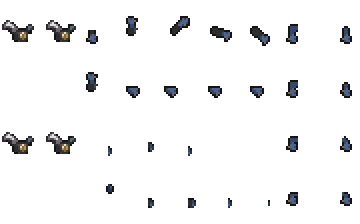
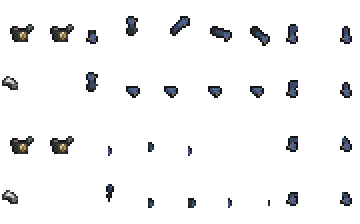
Finishing Touches

diff --git a/CalPlayer/CalamityPlayerMiscEffects.cs b/CalPlayer/CalamityPlayerMiscEffects.cs
@@ -232,6 +232,8 @@ namespace CalamityMod.CalPlayer
                     HasReducedDashFirstFrame = false;
             }
 
+            int dir = MathF.Sign(Player.velocity.X);
+
             if (lAmbergris)
             {
                 if (Player.miscCounter % 3 == 2 && Player.dashDelay > 0) // Reduced dash cooldown by 33%
@@ -252,22 +254,22 @@ namespace CalamityMod.CalPlayer
                     for (int i = 0; i < numberOfDusts; i++)
                     {
                         float rot = MathHelper.ToRadians(i * rotFactor);
-                        Vector2 offset = new Vector2(Player.velocity.X * Player.direction * 0.7f + 6f, 0).RotatedBy(rot * Main.rand.NextFloat(4f, 5f));
+                        Vector2 offset = new Vector2(Player.velocity.X * dir * 0.7f + 6f, 0).RotatedBy(rot * Main.rand.NextFloat(4f, 5f));
                         Vector2 velOffset = Vector2.Zero;
                         Dust dust = Dust.NewDustPerfect(Player.Center + offset + Player.velocity, Main.rand.NextBool() ? 160 : 307, new Vector2(velOffset.X, velOffset.Y));
                         dust.noGravity = true;
                         dust.velocity = velOffset;
                         dust.alpha = 100;
-                        dust.scale = (Player.velocity.X * Player.direction * 0.08f);
+                        dust.scale = (Player.velocity.X * dir * 0.08f);
                     }
                     if (Player.miscCounter % 4 == 0)
                     {
-                        float sparkscale = (Player.velocity.X * Player.direction * 0.07f);
-                        Vector2 SparkVelocity1 = Player.velocity.RotatedBy(Player.direction * 2, default) * 0.1f - Player.velocity / 2f;
-                        LineParticle spark = new LineParticle(Player.Center + Player.velocity.RotatedBy(2f * Player.direction) * 1.5f, SparkVelocity1, false, Main.rand.Next(11, 13), sparkscale, Main.rand.NextBool() ? Color.DarkTurquoise : Color.DodgerBlue);
+                        float sparkscale = (Player.velocity.X * dir * 0.07f);
+                        Vector2 SparkVelocity1 = Player.velocity.RotatedBy(dir * 2, default) * 0.1f - Player.velocity / 2f;
+                        LineParticle spark = new LineParticle(Player.Center + Player.velocity.RotatedBy(2f * dir) * 1.5f, SparkVelocity1, false, Main.rand.Next(11, 13), sparkscale, Main.rand.NextBool() ? Color.DarkTurquoise : Color.DodgerBlue);
                         GeneralParticleHandler.SpawnParticle(spark);
-                        Vector2 SparkVelocity2 = Player.velocity.RotatedBy(Player.direction * -2, default) * 0.1f - Player.velocity / 2f;
-                        LineParticle spark2 = new LineParticle(Player.Center + Player.velocity.RotatedBy(-2f * Player.direction) * 1.5f, SparkVelocity2, false, Main.rand.Next(11, 13), sparkscale, Main.rand.NextBool() ? Color.DarkTurquoise : Color.DodgerBlue);
+                        Vector2 SparkVelocity2 = Player.velocity.RotatedBy(dir * -2, default) * 0.1f - Player.velocity / 2f;
+                        LineParticle spark2 = new LineParticle(Player.Center + Player.velocity.RotatedBy(-2f * dir) * 1.5f, SparkVelocity2, false, Main.rand.Next(11, 13), sparkscale, Main.rand.NextBool() ? Color.DarkTurquoise : Color.DodgerBlue);
                         GeneralParticleHandler.SpawnParticle(spark2);
                     }
                     if (Player.miscCounter % 4 == 0 && Player.velocity != Vector2.Zero) //every other frame spawn the hitbox
@@ -298,20 +300,20 @@ namespace CalamityMod.CalPlayer
                     for (int i = 0; i < numberOfDusts; i++)
                     {
                         float rot = MathHelper.ToRadians(i * rotFactor);
-                        Vector2 offset = new Vector2(MathF.Min(Player.velocity.X * Player.direction * 0.7f + 8f, 20f), 0).RotatedBy(rot * Main.rand.NextFloat(4f, 5f));
+                        Vector2 offset = new Vector2(MathF.Min(Player.velocity.X * dir * 0.7f + 8f, 20f), 0).RotatedBy(rot * Main.rand.NextFloat(4f, 5f));
                         Vector2 velOffset = Vector2.Zero;
                         Dust dust = Dust.NewDustPerfect(Player.Center + offset + Player.velocity, Main.rand.NextBool() ? 35 : 127, new Vector2(velOffset.X, velOffset.Y));
                         dust.noGravity = true;
                         dust.velocity = velOffset;
                         dust.alpha = 100;
-                        dust.scale = MathF.Min(Player.velocity.X * Player.direction * 0.08f, 1.2f);
+                        dust.scale = MathF.Min(Player.velocity.X * dir * 0.08f, 1.2f);
                     }
-                    float sparkscale = MathF.Min(Player.velocity.X * Player.direction * 0.08f, 1.2f);
-                    Vector2 SparkVelocity1 = Player.velocity.RotatedBy(Player.direction * -3, default) * 0.1f - Player.velocity / 2f;
-                    SparkParticle spark = new SparkParticle(Player.Center + Player.velocity.RotatedBy(2f * Player.direction) * 1.5f, SparkVelocity1, false, Main.rand.Next(11, 13), sparkscale, Main.rand.NextBool() ? Color.DarkOrange : Color.OrangeRed);
+                    float sparkscale = MathF.Min(Player.velocity.X * dir * 0.08f, 1.2f);
+                    Vector2 SparkVelocity1 = Player.velocity.RotatedBy(dir * -3, default) * 0.1f - Player.velocity / 2f;
+                    SparkParticle spark = new SparkParticle(Player.Center + Player.velocity.RotatedBy(2f * dir) * 1.5f, SparkVelocity1, false, Main.rand.Next(11, 13), sparkscale, Main.rand.NextBool() ? Color.DarkOrange : Color.OrangeRed);
                     GeneralParticleHandler.SpawnParticle(spark);
-                    Vector2 SparkVelocity2 = Player.velocity.RotatedBy(Player.direction * 3, default) * 0.1f - Player.velocity / 2f;
-                    SparkParticle spark2 = new SparkParticle(Player.Center + Player.velocity.RotatedBy(-2f * Player.direction) * 1.5f, SparkVelocity2, false, Main.rand.Next(11, 13), sparkscale, Main.rand.NextBool() ? Color.DarkOrange : Color.OrangeRed);
+                    Vector2 SparkVelocity2 = Player.velocity.RotatedBy(dir * 3, default) * 0.1f - Player.velocity / 2f;
+                    SparkParticle spark2 = new SparkParticle(Player.Center + Player.velocity.RotatedBy(-2f * dir) * 1.5f, SparkVelocity2, false, Main.rand.Next(11, 13), sparkscale, Main.rand.NextBool() ? Color.DarkOrange : Color.OrangeRed);
                     GeneralParticleHandler.SpawnParticle(spark2);
 
                     if (Player.miscCounter % 6 == 0 && Player.velocity != Vector2.Zero)
@@ -326,9 +328,6 @@ namespace CalamityMod.CalPlayer
 
             if (XykVisualsBlue || XykVisualsOrange)
             {
-                if (Player.statLife > 30)
-                    Player.statLife = 30;
-
                 bool Orange = XykVisualsOrange;
                 Color effectColor = Orange ? Color.Gold : Color.DodgerBlue;
 
@@ -370,7 +369,7 @@ namespace CalamityMod.CalPlayer
                         IsFirstDashFrame = false;
                     }
                     
-                    float sparkscale1 = MathF.Min(Player.velocity.X * Player.direction * 0.08f, 1.2f);
+                    float sparkscale1 = MathF.Min(Player.velocity.X * dir * 0.08f, 1.2f);
                     Vector2 SparkVelocity1 = -Player.velocity.SafeNormalize(Vector2.UnitX) * 5;
 
                     if (!Orange)
@@ -386,12 +385,12 @@ namespace CalamityMod.CalPlayer
                     }
                     else
                     {
-                        float sparkscale2 = MathF.Min(Player.velocity.X * Player.direction * 0.07f, 1.1f);
-                        Vector2 SparkVelocity2 = Player.velocity.RotatedBy(Player.direction * 2.5f, default) * 0.1f - Player.velocity / 2f;
-                        Particle spark = new LineParticle(Player.Center + (Player.velocity.SafeNormalize(Vector2.UnitX) * 15).RotatedBy(2f * Player.direction) * 1.5f, SparkVelocity2, false, 10, sparkscale2, effectColor);
+                        float sparkscale2 = MathF.Min(Player.velocity.X * dir * 0.07f, 1.1f);
+                        Vector2 SparkVelocity2 = Player.velocity.RotatedBy(dir * 2.5f, default) * 0.1f - Player.velocity / 2f;
+                        Particle spark = new LineParticle(Player.Center + (Player.velocity.SafeNormalize(Vector2.UnitX) * 15).RotatedBy(2f * dir) * 1.5f, SparkVelocity2, false, 10, sparkscale2, effectColor);
                         GeneralParticleHandler.SpawnParticle(spark);
-                        Vector2 SparkVelocity3 = Player.velocity.RotatedBy(Player.direction * -2.5f, default) * 0.1f - Player.velocity / 2f;
-                        Particle spark2 = new LineParticle(Player.Center + (Player.velocity.SafeNormalize(Vector2.UnitX) * 15).RotatedBy(-2f * Player.direction) * 1.5f, SparkVelocity3, false, 10, sparkscale2, effectColor);
+                        Vector2 SparkVelocity3 = Player.velocity.RotatedBy(dir * -2.5f, default) * 0.1f - Player.velocity / 2f;
+                        Particle spark2 = new LineParticle(Player.Center + (Player.velocity.SafeNormalize(Vector2.UnitX) * 15).RotatedBy(-2f * dir) * 1.5f, SparkVelocity3, false, 10, sparkscale2, effectColor);
                         GeneralParticleHandler.SpawnParticle(spark2);
                     }
 

diff --git a/Items/Accessories/Vanity/XyksBlessingOrange.cs b/Items/Accessories/Vanity/XyksBlessingOrange.cs
@@ -20,9 +20,9 @@ namespace CalamityMod.Items.Accessories.Vanity
         {
             if (!Main.dedServ)
             {
-                EquipLoader.AddEquipTexture(Mod, "CalamityMod/Items/Accessories/Vanity/XYK_Head", EquipType.Head, this);
-                EquipLoader.AddEquipTexture(Mod, "CalamityMod/Items/Accessories/Vanity/XYK_Body", EquipType.Body, this);
-                EquipLoader.AddEquipTexture(Mod, "CalamityMod/Items/Accessories/Vanity/XYK_Legs", EquipType.Legs, this);
+                EquipLoader.AddEquipTexture(Mod, "CalamityMod/Items/Accessories/Vanity/Xyk_Head", EquipType.Head, this);
+                EquipLoader.AddEquipTexture(Mod, "CalamityMod/Items/Accessories/Vanity/Xyk_Body2", EquipType.Body, this);
+                EquipLoader.AddEquipTexture(Mod, "CalamityMod/Items/Accessories/Vanity/Xyk_Legs2", EquipType.Legs, this);
             }
         }
 

diff --git a/Items/Accessories/Vanity/XyksBlessingBlue.cs b/Items/Accessories/Vanity/XyksBlessingBlue.cs
@@ -20,9 +20,9 @@ namespace CalamityMod.Items.Accessories.Vanity
         {
             if (!Main.dedServ)
             {
-                EquipLoader.AddEquipTexture(Mod, "CalamityMod/Items/Accessories/Vanity/XYK_Head", EquipType.Head, this);
-                EquipLoader.AddEquipTexture(Mod, "CalamityMod/Items/Accessories/Vanity/XYK_Body", EquipType.Body, this);
-                EquipLoader.AddEquipTexture(Mod, "CalamityMod/Items/Accessories/Vanity/XYK_Legs", EquipType.Legs, this);
+                EquipLoader.AddEquipTexture(Mod, "CalamityMod/Items/Accessories/Vanity/Xyk_Head", EquipType.Head, this);
+                EquipLoader.AddEquipTexture(Mod, "CalamityMod/Items/Accessories/Vanity/Xyk_Body", EquipType.Body, this);
+                EquipLoader.AddEquipTexture(Mod, "CalamityMod/Items/Accessories/Vanity/Xyk_Legs", EquipType.Legs, this);
             }
         }
 

diff --git a/Projectiles/Typeless/XykDeathAnim.cs b/Projectiles/Typeless/XykDeathAnim.cs
@@ -32,7 +32,7 @@ namespace CalamityMod.Projectiles.Typeless
             Projectile.ignoreWater = true;
             Projectile.tileCollide = false;
             Projectile.timeLeft = 32;
-            Projectile.scale = 0.55f; // Normally we dont put scale here, but it doesn't matter this time
+            Projectile.scale = 0.55f; // Normally we don't put scale here, but it doesn't matter this time
         }
 
         public override void AI()
